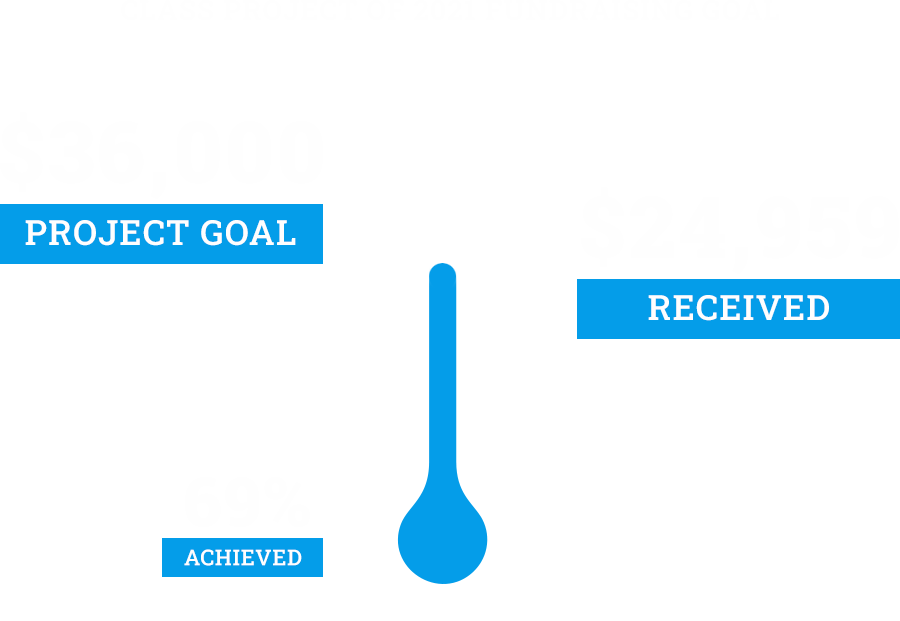
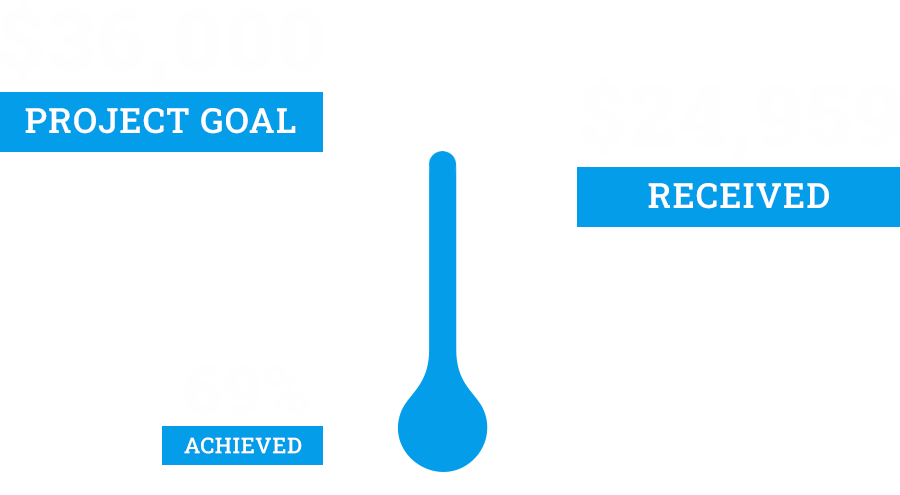
added thermometer to donation landing page

diff --git a/src/components/DonateLanding.js b/src/components/DonateLanding.js
@@ -3,11 +3,12 @@ import React, { useEffect } from 'react';
 import styled from 'styled-components';
 import { useHistory } from 'react-router';
 import ReactGA from 'react-ga';
+import thermometer from '../assets/images/thermometer.png';
 
 
 const StyledLanding = styled.div`
   padding-top: 50px;
-  padding-bottom: 200px;
+  padding-bottom: 3rem;
   color: white;
   z-index: -1;
 
@@ -15,27 +16,46 @@ const StyledLanding = styled.div`
     font-weight: 700;
     font-size: 3rem;
     color: white;
-    margin: 9rem auto 1rem auto;
+    margin: 9rem auto .5rem auto;
     text-transform: uppercase;
   }
   h3 {
-    margin-bottom: 4rem;
+    margin-bottom: 2rem;
     font-size: 2rem;
     text-transform: uppercase;
   }
-  .buttons {
+  .main-content {
     display: flex;
     justify-content: space-evenly;
-    width: 1200px;
+    align-items: center;
+    flex-wrap: wrap;
+    width: 1400px;
     max-width: 100%;
     margin: 0 auto;
+  }
+  .image-container {
+    width: 700px;
+    max-width: 90%;
+  }
+  img {
+    width: 90%;
+    height: auto;
+    padding-bottom: 2rem;
+  }
+  .buttons {
+    display: flex;
+    flex-direction: column;
+    justify-content: space-evenly;
+    width: 25%;
+    // max-width: 100%;
+    // margin: 0 auto;
     align-items: center;
   }
   button {
     font-family: inherit;
-    background: rgba(50,156,214,.37);
-    height: 250px;
-    width: 250px;
+    background: rgba(50,156,214);
+    // height: 250px;
+    width: 220px;
     border: 3px solid #329CD6;
     border-radius: 5px;
     margin: 1rem;
@@ -68,11 +88,35 @@ const StyledLanding = styled.div`
   }
 
 
-  @media(max-width: 787px) {
+  @media(max-width: 935px) {
     .buttons {
-      flex-direction: column;
+      width: 100%;
       button {
-        height: 150px;
+        width: 65%;
+        margin: .5rem;
+        min-width: 200px;
+      }
+    }
+    .image-container {
+      margin-bottom: 2rem;
+      img {
+        border-bottom: 5px solid rgba(50,156,214);
+      }
+    }
+  }
+  @media(max-width: 500px) {
+    h2 {
+      font-size: 2.5rem;
+    }
+    h3 {
+      font-size: 1.5rem;
+    }
+    .buttons {
+      button {
+        font-size: 1rem;
+        span {
+          font-size: 1rem;
+        }
       }
     }
   }
@@ -97,34 +141,39 @@ export default function DonateLanding() {
       <h3>
         Ways to support us
       </h3>
-      <div className="buttons">
-        <button onClick = {(e)=> {
-          e.preventDefault();
-          history.push('/bricks');
-        }}>
-          <div>
-            Purchase an engraved brick<br />
-            <span>(starting at $160)</span>
-          </div>
-        </button>
-        <button onClick = {(e)=> {
-          e.preventDefault();
-          history.push('/donate/straight');
-        }}>
-          <div>
-            Make a donation
-          </div>
-        </button>
-        <button onClick = {(e)=> {
-          e.preventDefault();
-          history.push('/sponsorship');
-        }}>
-          <div>
-            Become a Sponsor<br />
-            <span>(starting at $1,000)</span>
-          </div>
-        </button>
-      </div>
+      <section className="main-content">
+        <div className="image-container">
+          <img src={thermometer} alt="Raised $24,959 of $36,000 goal. 69% achieved" />
+        </div>
+        <div className="buttons">
+          <button onClick = {(e)=> {
+            e.preventDefault();
+            history.push('/bricks');
+          }}>
+            <div>
+              Purchase an engraved brick<br />
+              <span>(starting at $160)</span>
+            </div>
+          </button>
+          <button onClick = {(e)=> {
+            e.preventDefault();
+            history.push('/donate/straight');
+          }}>
+            <div>
+              Make a donation
+            </div>
+          </button>
+          <button onClick = {(e)=> {
+            e.preventDefault();
+            history.push('/sponsorship');
+          }}>
+            <div>
+              Become a Sponsor<br />
+              <span>(starting at $1,000)</span>
+            </div>
+          </button>
+        </div>
+      </section>
     </StyledLanding>
   )
 }
